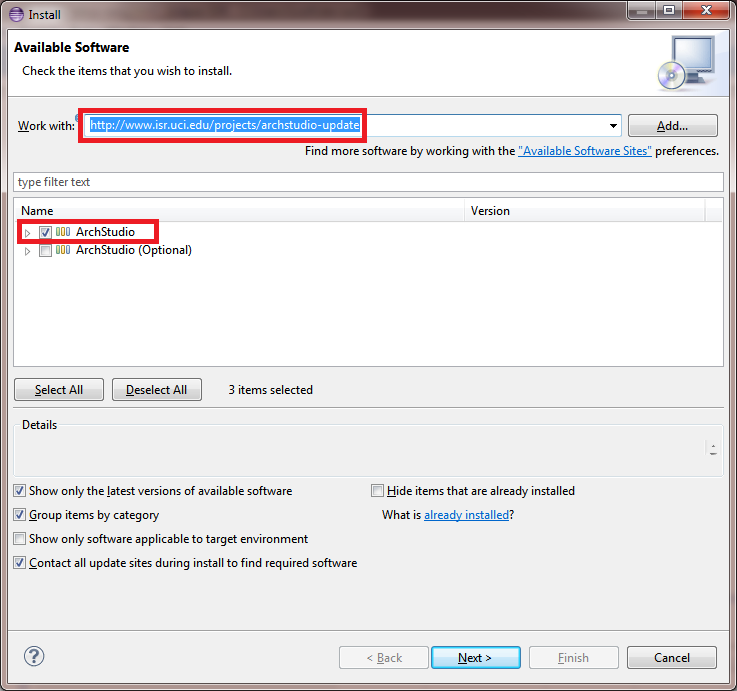
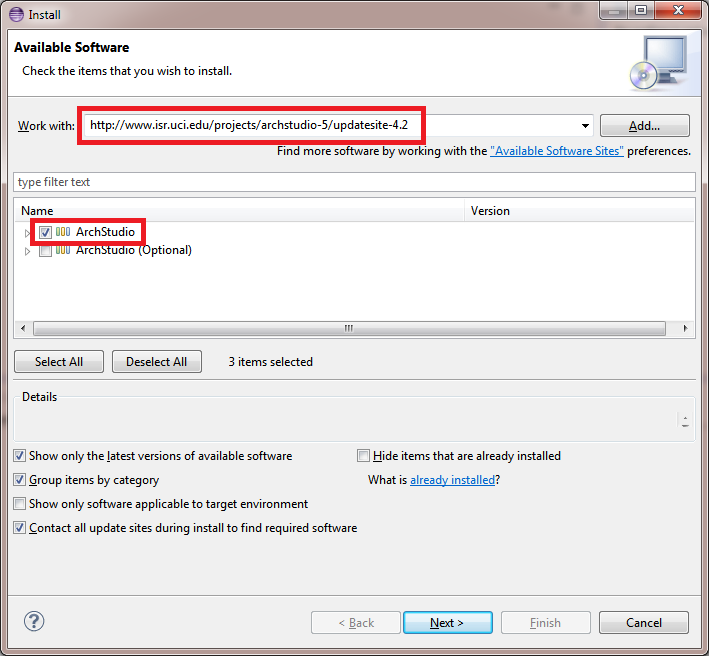
Updated update site location

diff --git a/org.archstudio.doc/www/archstudio/setup-easy.html b/org.archstudio.doc/www/archstudio/setup-easy.html
@@ -116,7 +116,7 @@
 				<li>Go to Help | Install New Software...</li>
 				<li>In the "Work with:" text box (as highlighted on the left)
 					enter the following URL: <a
-					href="http://www.isr.uci.edu/projects/archstudio-update/">http://www.isr.uci.edu/projects/archstudio-update/</a>
+					href="http://www.isr.uci.edu/projects/archstudio-5/updatesite-4.2">http://www.isr.uci.edu/projects/archstudio-5/updatesite-4.2</a>
 				</li>
 				<li>press Enter</li>
 				<li>Select "ArchStudio" (as highlighted on the left)</li>
